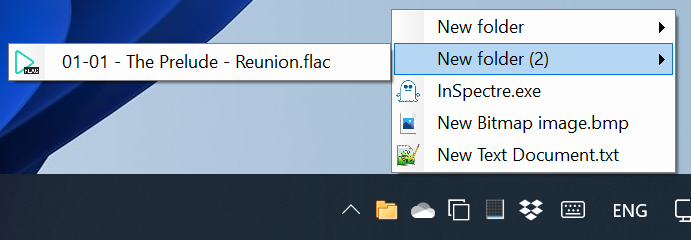
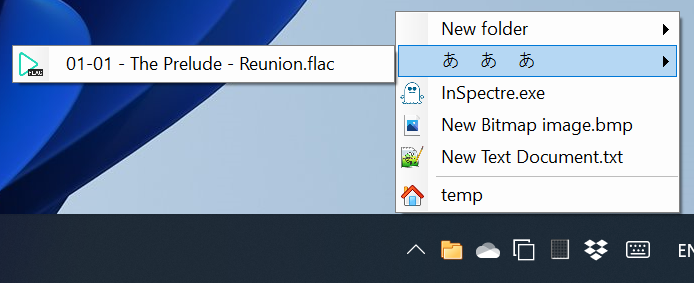
Update to v1.3.0.0.

diff --git a/README.md b/README.md
@@ -18,7 +18,7 @@ The Windows 10 provide the convenient function that can make the nested folder t
 ### Environment
 
 - Windows 11
-- .NET Desktop Runtime 6.0.0-rc.2 ( [Download](https://dotnet.microsoft.com/download/dotnet/thank-you/runtime-desktop-6.0.0-rc.2-windows-x64-installer) )
+- .NET Desktop Runtime 6.0.0 ( [Download](https://dotnet.microsoft.com/download/dotnet/thank-you/runtime-desktop-6.0.0-windows-x64-installer) )
 
 ## Instruction 
 
@@ -26,11 +26,18 @@ Download released package and then uncompress it. Running "TrayToolbar.exe" to o
 
 Pay attention to the tray icon at taskbar that the new icon showed.
 
-Right-click mouse and click "Options"
+Right-click mouse :
+
+- Refresh - Refresh left-click menu.
+- Options - Config app.
+- About - Information about app.
+- Exit - Exit app.
 
 ![mouse-right-click-menu.png](img/mouse-right-click-menu.png)
 
 *TrayToolbar App & right-click menu*
+
+Click "Options".
 
 You can config the parameters of app:
 
@@ -52,6 +59,10 @@ You can click any item if it is:
 
 - Folder - Open the windows explorer by path.
 - Files - Open the file with associated app.
+
+Special :
+
+- House Logo - Open the windows explorer by home path.
 
 ![mouse-left-click-menu.png](img/mouse-left-click-menu.png)
 
